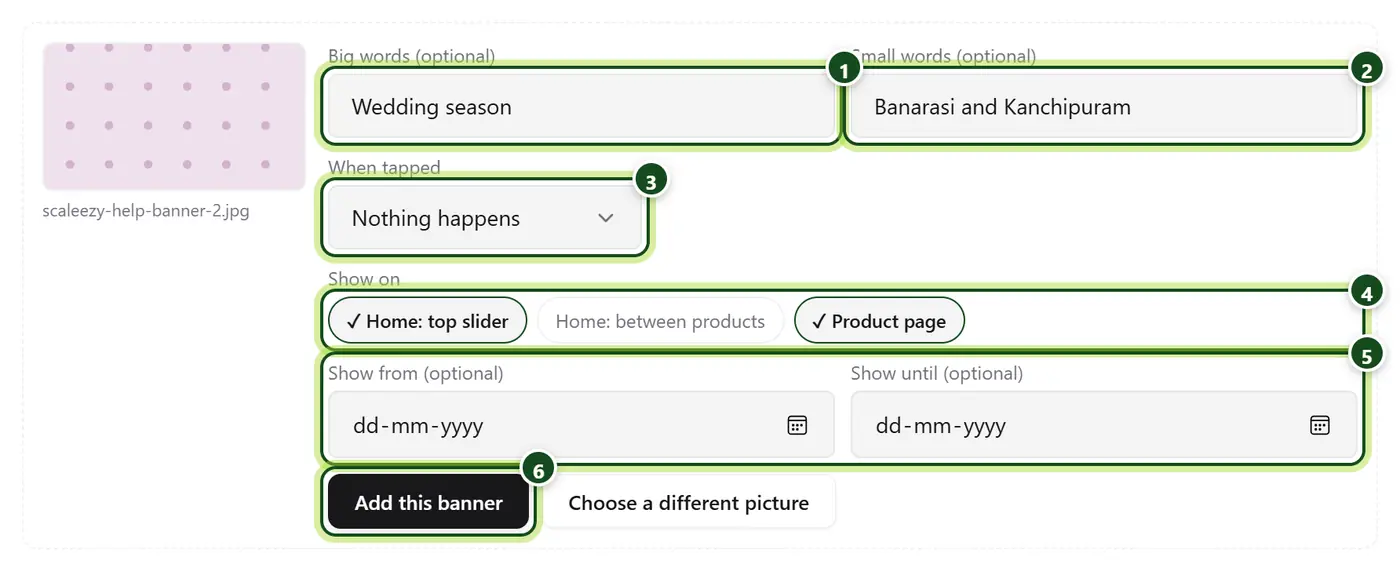
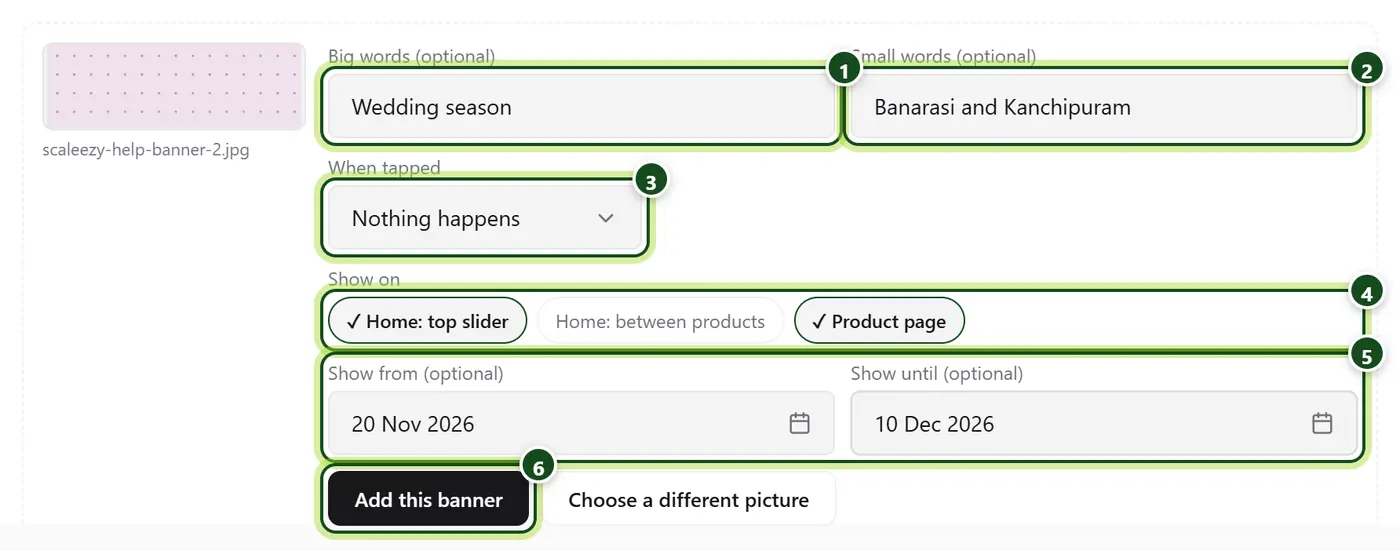
Reel editor asks before the sidebar leaves unsaved changes; Help pictures of the new date boxes
- ReelLinkEdit: any in-app link (sidebar, top bar) asks 'Leave without saving?' while there are changes
- Help: offers 'When' and shop banners pictures re-taken with the app's own date boxes and green tick; picture text updated in 5 languages
- DateField and Select carry data-value so tests can read the chosen value

Changed region(s): [[0.215, 0.3702, 1.0, 0.9873], [0.0307, 0.216, 0.9829, 0.4011], [0.215, 0.0926, 1.0, 0.216]]

diff --git a/src/pages/reel-links/ReelLinkEdit.jsx b/src/pages/reel-links/ReelLinkEdit.jsx
@@ -133,6 +133,24 @@ function ReelLinkEdit() {
   // The page's own ways out ask in the app's own box (it was the browser's confirm(), 17 Nov 2026: no native boxes).
   const [leaveTo, setLeaveTo] = useState(null);
   const leave = (to) => { if (dirty) setLeaveTo(to); else navigate(to); };
+  // Every other way out inside the app asks too: the sidebar, the top bar, a link in the page. Caught before React
+  // sees the click (capture, on the document), so the link does not navigate; a new tab or another site is left alone.
+  useEffect(() => {
+    if (!dirty) return undefined;
+    const onClick = (e) => {
+      if (e.defaultPrevented || e.button !== 0 || e.metaKey || e.ctrlKey || e.shiftKey || e.altKey) return;
+      const a = e.target instanceof Element ? e.target.closest('a[href]') : null;
+      if (!a || (a.target && a.target !== '_self') || a.hasAttribute('download')) return;
+      const url = new URL(a.href, window.location.href);
+      if (url.origin !== window.location.origin) return;
+      if (url.pathname === window.location.pathname && url.search === window.location.search) return;
+      e.preventDefault();
+      e.stopPropagation();
+      setLeaveTo(`${url.pathname}${url.search}${url.hash}`);
+    };
+    document.addEventListener('click', onClick, true);
+    return () => document.removeEventListener('click', onClick, true);
+  }, [dirty]);
 
   // The saved reel link fills the form once; after that the form is the person's until they save.
   const fillFrom = (d) => { setTitle(d.title); setReelUrl(d.reelUrl || ''); setPieces(d.pieces); };

diff --git a/src/components/common/Select.jsx b/src/components/common/Select.jsx
@@ -392,6 +392,8 @@ export default function Select({
           aria-activedescendant={isOpen && active >= 0 ? optionId(active) : undefined}
           aria-disabled={disabled || undefined}
           aria-required={required || undefined}
+          // The chosen value, readable by tests (a div has no .value).
+          data-value={value ?? ''}
           className={`custom-select-trigger ${isOpen ? 'open' : ''} ${disabled ? 'disabled' : ''} ${variant === 'ghost' ? 'ghost' : ''}`}
           onClick={() => { if (disabled) return; if (isOpen) setIsOpen(false); else open(); }}
           onKeyDown={onKeyDown}

diff --git a/src/components/common/DateField.jsx b/src/components/common/DateField.jsx
@@ -99,6 +99,7 @@ export default function DateField({
         aria-haspopup="dialog"
         aria-expanded={open}
         aria-invalid={ariaInvalid}
+        data-value={value || ''}
         onClick={() => (open ? close({ refocus: true }) : openIt())}
         onKeyDown={(e) => { if (e.key === 'ArrowDown' && !open) { e.preventDefault(); openIt(); } }}
       >

diff --git a/src/help/content/offers/create-an-offer.kn.md b/src/help/content/offers/create-an-offer.kn.md
@@ -51,7 +51,7 @@ keywords: ಹೊಸ ಆಫರ್ ಡಿಸ್ಕೌಂಟ್ ಸೇಲ್ ಪರ
 2. [[2]] **Last day (optional)**: ಆ ದಿನ ರಾತ್ರಿ 11:59 ರವರೆಗೆ ನಡೆಯುತ್ತದೆ. ನೀವು ನಿಲ್ಲಿಸುವವರೆಗೆ ನಡೆಯಬೇಕಿದ್ದರೆ ಖಾಲಿ ಬಿಡಿ.
 3. [[3]] ಹ್ಯಾಪಿ ಅವರ್ಗಾಗಿ **Only at certain hours** ಟಿಕ್ ಮಾಡಿ: ದಿನಗಳು ಮತ್ತು ಯಾವಾಗಿನಿಂದ ಯಾವಾಗವರೆಗೆ ಎಂಬ ಸಮಯ ಆರಿಸಿ.
 
-![When. ಶುರು ದಿನಾಂಕ 17-09-2026 ಅನ್ನು 1, ಕೊನೆಯ ದಿನ 01-10-2026 ಅನ್ನು 2 ಮತ್ತು Only at certain hours ಅನ್ನು 3 ಎಂದು ಗುರುತಿಸಲಾಗಿದೆ.](5-when.webp "ಸಮಯ ನಿಮ್ಮ ಅಂಗಡಿಯ ಸ್ಥಳೀಯ ಸಮಯದಲ್ಲಿ ಇರುತ್ತದೆ.")
+![When. ಶುರು ದಿನಾಂಕ 17 Nov 2026 ಅನ್ನು 1, ಕೊನೆಯ ದಿನ 1 Dec 2026 ಅನ್ನು 2 ಮತ್ತು Only at certain hours ಅನ್ನು 3 ಎಂದು ಗುರುತಿಸಲಾಗಿದೆ.](5-when.webp "ಸಮಯ ನಿಮ್ಮ ಅಂಗಡಿಯ ಸ್ಥಳೀಯ ಸಮಯದಲ್ಲಿ ಇರುತ್ತದೆ.")
 
 ## 6. More options (ಬೇಕಿದ್ದರೆ)
 

diff --git a/src/help/content/offers/create-an-offer.hi.md b/src/help/content/offers/create-an-offer.hi.md
@@ -51,7 +51,7 @@ keywords: नया ऑफ़र बनाएँ डिस्काउंट छ
 2. [[2]] **Last day (optional)**: उस दिन रात 11:59 बजे तक चलता है। जब तक आप खुद न रोकें तब तक चलाने के लिए खाली छोड़ें।
 3. [[3]] हैप्पी आवर के लिए **Only at certain hours** टिक करें: दिन और कब से कब तक का समय चुनें।
 
-![When। शुरू की तारीख 17-09-2026 पर 1, आखिरी दिन 01-10-2026 पर 2 और Only at certain hours पर 3 का निशान है।](5-when.webp "समय आपकी दुकान के अपने टाइम के हिसाब से है।")
+![When। शुरू की तारीख 17 Nov 2026 पर 1, आखिरी दिन 1 Dec 2026 पर 2 और Only at certain hours पर 3 का निशान है।](5-when.webp "समय आपकी दुकान के अपने टाइम के हिसाब से है।")
 
 ## 6. और विकल्प (ज़रूरत हो तो)
 

diff --git a/src/help/content/offers/create-an-offer.md b/src/help/content/offers/create-an-offer.md
@@ -52,7 +52,7 @@ An offer on **The whole bill** applies to everything on the bill, so this part o
 2. [[2]] **Last day (optional)**: it runs until 11:59 pm that day. Leave it empty to run until you stop it.
 3. [[3]] Tick **Only at certain hours** for a happy hour: choose the days and the from and to times.
 
-![When. The start date 17-09-2026 is marked 1, the last day 01-10-2026 is marked 2 and Only at certain hours 3.](5-when.webp "Times are in your shop's own time.")
+![When. The start date 17 Nov 2026 is marked 1, the last day 1 Dec 2026 is marked 2 and Only at certain hours 3.](5-when.webp "Times are in your shop's own time.")
 
 ## 6. More options (if you need them)
 
